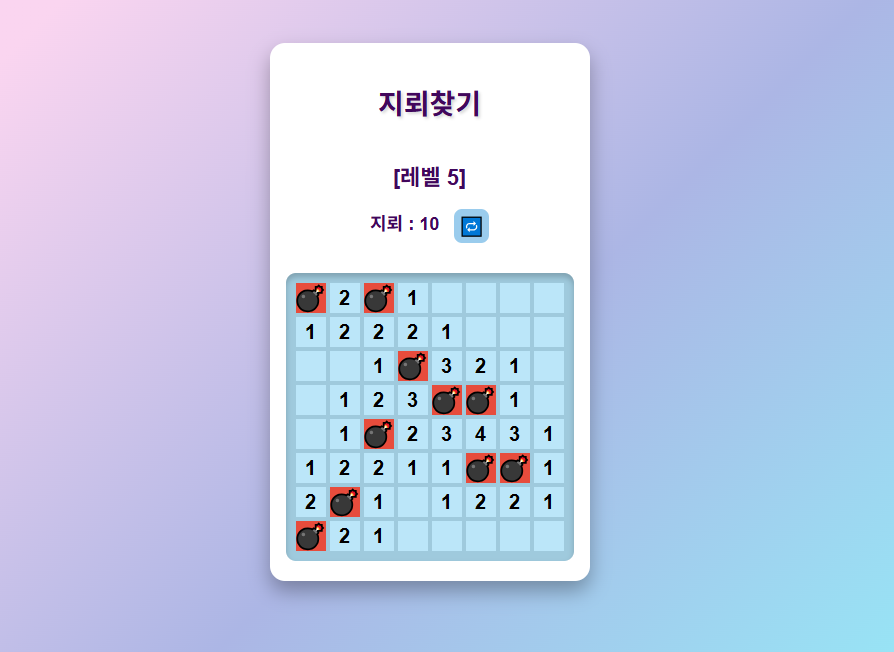
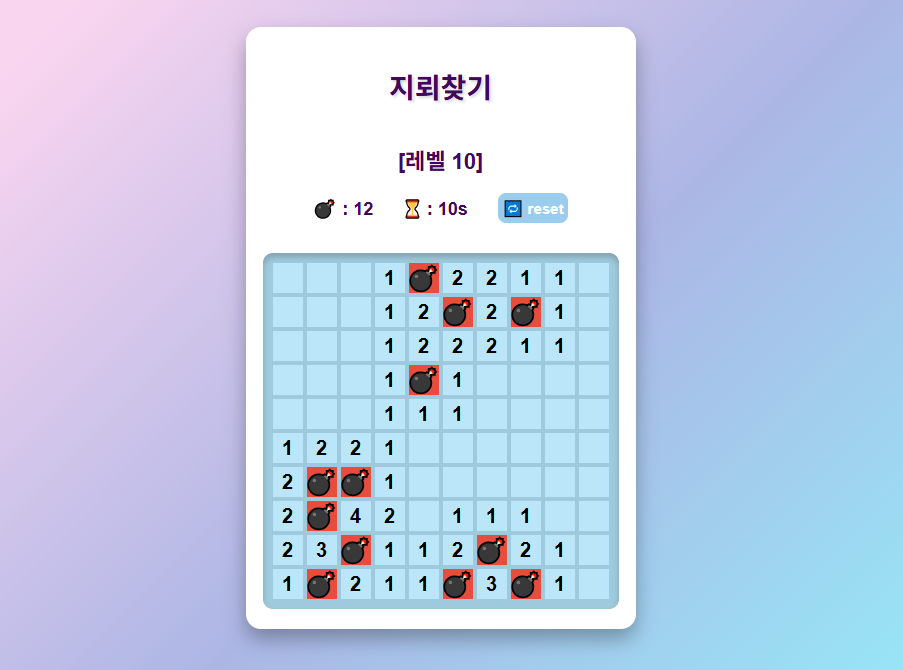
annotation

Changed region(s): [[0.2416, 0.0307, 0.7248, 0.9816]]

diff --git a/js/game.js b/js/game.js
@@ -2,6 +2,27 @@ let isLeftMouseDown = false;
 let isRightMouseDown = false;
 let hintTimeout = null;  // 마우스 동시 클릭 감지를 위한 타이머
 
+let timer = 0; // 게임 시간 (초)
+let timerInterval = null; // 타이머 인터벌 저장
+let gameActive = false; // 게임 진행 여부
+
+// 타이머 시작 함수
+function startTimer() {
+    if (timerInterval) clearInterval(timerInterval); // 기존 타이머 초기화
+    timer = 0;
+    document.getElementById("timer").textContent = timer;
+    timerInterval = setInterval(() => {
+        timer++;
+        document.getElementById("timer").textContent = timer;
+    }, 1000);
+}
+
+// 타이머 정지 함수
+function stopTimer() {
+    clearInterval(timerInterval);
+    timerInterval = null;
+}
+
 // 마우스 버튼 상태 감지 (누를 때)
 document.addEventListener("mousedown", (event) => {
     if (event.button === 0) isLeftMouseDown = true;  // 왼쪽 버튼
@@ -72,15 +93,23 @@ function countAdjacentMines(row, col) {
 
 // 셀 클릭 이벤트 핸들러 (일반 클릭)
 function handleCellClick(event) {
+    if (!gameActive) return; // 게임이 종료된 경우 클릭 방지
+
     let row = parseInt(event.target.dataset.row);
     let col = parseInt(event.target.dataset.col);
-
     let cell = board[row][col];
+
+    // 첫 클릭 시 타이머 시작
+    if (timer === 0 && !timerInterval) {
+        startTimer();
+    }
 
     // 지뢰를 밟은 경우
     if (cell.mine) {
         revealAllCells();
-        alert("💥 지뢰를 밟았습니다! 당신은 가루가 되었습니다.");
+        stopTimer();
+        gameActive = false;
+        alert(`💥 지뢰를 밟았습니다! ${timer}초 만에 당신은 가루가 되었습니다.`);
         return;
     } else {
         revealCell(row, col);
@@ -136,7 +165,8 @@ function revealAdjacentCells(row, col) {
 function checkWinCondition() {
     let unrevealedCells = board.flat().filter(cell => !cell.revealed);
     if (unrevealedCells.length === mineCount) {
-        alert(`🎉 레벨 ${currentLevel} 클리어! 다음 레벨로 이동합니다.`);
+        stopTimer(); // 승리 시 타이머 정지
+        alert(`🎉 레벨 ${currentLevel} 클리어! ${timer}초 소요됨. 다음 레벨로 이동합니다.`);
         nextLevel();
     }
 }
@@ -146,8 +176,8 @@ function nextLevel() {
     if (currentLevel < 20) {
         currentLevel++;
     } else {
-        alert("🎊 축하합니다! 모든 레벨을 클리어했습니다!");
-        currentLevel = 1; // 처음부터 다시 시작
+        alert(`🎊 축하합니다! 레벨을 클리어했습니다! 총 ${timer}초 소요됨.`);
+        currentLevel = 1;
     }
     resetGame();
 }
@@ -170,11 +200,65 @@ function revealAllCells() {
     });
 }
 
-// 게임 초기화
+// 게임 초기화 (리셋 버튼 클릭 시)
 function resetGame() {
-    initBoard();
+    stopTimer();  // 타이머 정지 및 초기화
+    initBoard();  // 보드 초기화
 }
 
 // 초기 실행
 document.getElementById("reset-btn").addEventListener("click", resetGame);
 initBoard();
+
+
+
+/* ──────────────────────────────────────────────── */
+/* 치트키 기능
+/* ──────────────────────────────────────────────── */
+
+// 키보드 이벤트 감지 (치트키 설정)
+document.addEventListener("keydown", (event) => {
+    if (event.shiftKey && event.key === "D") { 
+        cheatNextLevel(); // 다음 레벨로 이동
+    } else if (event.shiftKey && event.key === "A") {
+        cheatPreviousLevel(); // 이전 레벨로 이동
+    } else if (event.shiftKey && event.key === "S") {
+        cheatRevealMines(); // 지뢰 표시 토글
+    }
+});
+
+// 치트키: 다음 레벨로 이동 (Shift + D)
+function cheatNextLevel() {
+    alert(`치트 활성화! 레벨 ${currentLevel} → ${currentLevel + 1}`);
+    currentLevel++; 
+    resetGame();
+}
+
+// 치트키: 이전 레벨로 이동 (Shift + A)
+function cheatPreviousLevel() {
+    if (currentLevel > 1) {
+        alert(`⏪ 치트 활성화! 레벨 ${currentLevel} → ${currentLevel - 1}`);
+        currentLevel--;
+        resetGame();
+    } else {
+        alert("🚫 첫 번째 레벨입니다!");
+    }
+}
+
+// 치트키: 모든 지뢰 표시 (Shift + S)
+let minesRevealed = false;
+function cheatRevealMines() {
+    minesRevealed = !minesRevealed;
+
+    board.forEach((row, rowIndex) => {
+        row.forEach((cell, colIndex) => {
+            let cellElement = document.querySelector(`[data-row="${rowIndex}"][data-col="${colIndex}"]`);
+            if (cell.mine) {
+                cellElement.textContent = minesRevealed ? "💣" : ""; // 지뢰 표시 or 숨김
+                cellElement.classList.toggle("mine", minesRevealed);
+            }
+        });
+    });
+
+    alert(minesRevealed ? "💣 지뢰 표시 활성화!" : "❌ 지뢰 숨김 모드!");
+}

diff --git a/js/board.js b/js/board.js
@@ -23,10 +23,11 @@ let board = [];       // 보드 배열
 
 // 자동으로 보드 크기와 지뢰 개수를 조정
 function updateLevelSettings() {
-    let levelGroup = Math.floor((currentLevel - 1) / 5); // 5레벨 단위 그룹 (0부터 시작)
+    let levelGroup = Math.floor((currentLevel - 1) / 5); // 5레벨 단위 그룹
     
     boardSize = 8 + levelGroup * 2; // 5레벨마다 보드 크기 증가
-    let baseMineCount = 2 + levelGroup * 2; // 각 그룹의 지뢰 시작 개수 (2, 4, 6, 8, ...)
+    
+    let baseMineCount = 4 + levelGroup * 4; // 5레벨마다 4씩 증가(1레벨: 4개, 6레벨: 8개, 11레벨: 12개)
     let levelOffset = (currentLevel - 1) % 5; // 그룹 내에서 몇 번째 레벨인지 (0~4)
     
     mineCount = baseMineCount + levelOffset * 2; // 2씩 증가
@@ -37,25 +38,31 @@ function updateLevelSettings() {
 function updateGameContainerSize() {
     const gameContainer = document.getElementById("game-container");
 
+    // 기본 보드 크기(8x8)에서 증가하는 칸 수를 계산
+    let levelGroup = Math.floor((currentLevel - 1) / 5); // 5레벨마다 크기 증가 그룹
+    let extraMargin = levelGroup * 10; // 레벨 그룹마다 추가 마진 (10px씩 증가)
+
     // 보드 크기 계산 (셀 크기: 30px)
-    let newWidth = boardSize * 30 + 40; // 보드 크기 + 좌우 마진 (20px * 2)
+    let newWidth = boardSize * 30 + 40 + extraMargin; // 좌우 마진 반영하여 계산
 
     gameContainer.style.width = `${newWidth}px`;
-    gameContainer.style.marginBottom = "20px"; // 아래 마진 추가
+    gameContainer.style.margin = "40px auto"; // 중앙 정렬 유지
 }
-
 
 // 보드 초기화 함수 (레벨별 설정 적용)
 function initBoard() {
     updateLevelSettings(); // 레벨에 맞게 보드 크기 & 지뢰 개수 변경
     updateGameContainerSize(); // 게임 컨테이너 크기 업데이트
 
-    board = Array.from({ length: boardSize }, () => 
+    board = Array.from({ length: boardSize }, () =>
         Array.from({ length: boardSize }, () => ({ mine: false, revealed: false, flag: false }))
     );
 
     placeMines();
     renderBoard();
+
+    gameActive = true; // 게임 시작 상태 활성화
+    startTimer(); //게임 시작 시 타이머 실행
 }
 
 

diff --git a/css/main.css b/css/main.css
@@ -4,12 +4,12 @@ body {
     text-align: center;
     background: linear-gradient(135deg, #fad5f0 10%, #acb6e5 50%, #94ecf8 90%);
 
-    min-height: 70vh; /* 🔥 최소 높이만 설정 (고정 X) */
-    background-attachment: fixed; /* 배경이 고정됨 */
+    min-height: 70vh; /* 최소 높이만 설정 (고정 X) */
+    background-attachment: fixed; /* 배경 고정 */
     display: flex;
-    flex-direction: column; /* 🔥 요소를 세로 정렬 */
-    justify-content: center; /* 🔥 중앙 정렬 */
-    align-items: center; /* 🔥 가운데 정렬 */
+    flex-direction: column; /* 세로 정렬 */
+    justify-content: center; 
+    align-items: center; /* 가운데 정렬 */
     margin: 0;
 }
 
@@ -25,6 +25,7 @@ body {
     flex-direction: column;
     align-items: center;
     width: auto;
+    max-width: 95vw; 
     transition: all 0.3s ease-in-out;
 }
 
@@ -37,18 +38,19 @@ h1 {
 }
 
 #level-display {
-    color: #41075c; /* 🔥 레벨 글씨 색상을 명확하게 지정 */
+    color: #41075c; 
     font-size: 22px;
     font-weight: bold;
 }
 
 
-/* 📌 게임 정보 (레벨, 지뢰 수) */
+/* 게임 정보 (지뢰 개수, 타이머, 리셋 버튼) */
 #game-info {
     color: #41075c;
     display: flex;
     justify-content: center;
-    gap: 15px;
+    align-items: center;
+    gap: 30px;
     width: 90%;
     margin-bottom: 15px;
     font-size: 18px;
@@ -83,7 +85,7 @@ h1 {
     justify-content: center;
 }
 
-/* 🔥 셀을 클릭했을 때 */
+/* 셀 클릭했을 때 */
 .cell.pressed {
     transform: scale(0.95);
 }
@@ -107,11 +109,14 @@ h1 {
 #reset-btn {
     background: #9acced;
     color: white;
-    font-size: 18px;
+    font-size: 15px;
     font-weight: bold;
     padding: 5px 5px 5px 5px;
     border: none;
     border-radius: 8px;
+    display: flex;
+    align-items: center;
+    justify-content: center;
     cursor: pointer;
     transition: background 0.2s ease-in-out;
 }

diff --git a/index.html b/index.html
@@ -4,7 +4,6 @@
     <meta charset="UTF-8">
     <meta name="viewport" content="width=device-width, initial-scale=1.0">
     <title>지뢰찾기 게임</title>
-    <link rel="stylesheet" href="css/reset.css">
     <link rel="stylesheet" href="css/main.css">
 </head>
 <body>
@@ -12,8 +11,9 @@
         <h1>지뢰찾기</h1>
         <h2 id="level-display">레벨 1</h2>
         <div id="game-info">
-            <span>지뢰 : <span id="mine-count"></span></span>
-            <button id="reset-btn">🔁</button>
+            <span>💣 : <span id="mine-count"></span></span>
+            <span>⏳ : <span id="timer">0</span>s</span>
+            <button id="reset-btn">🔁 reset</button>
         </div>
         <div id="board"></div>
     </div>
